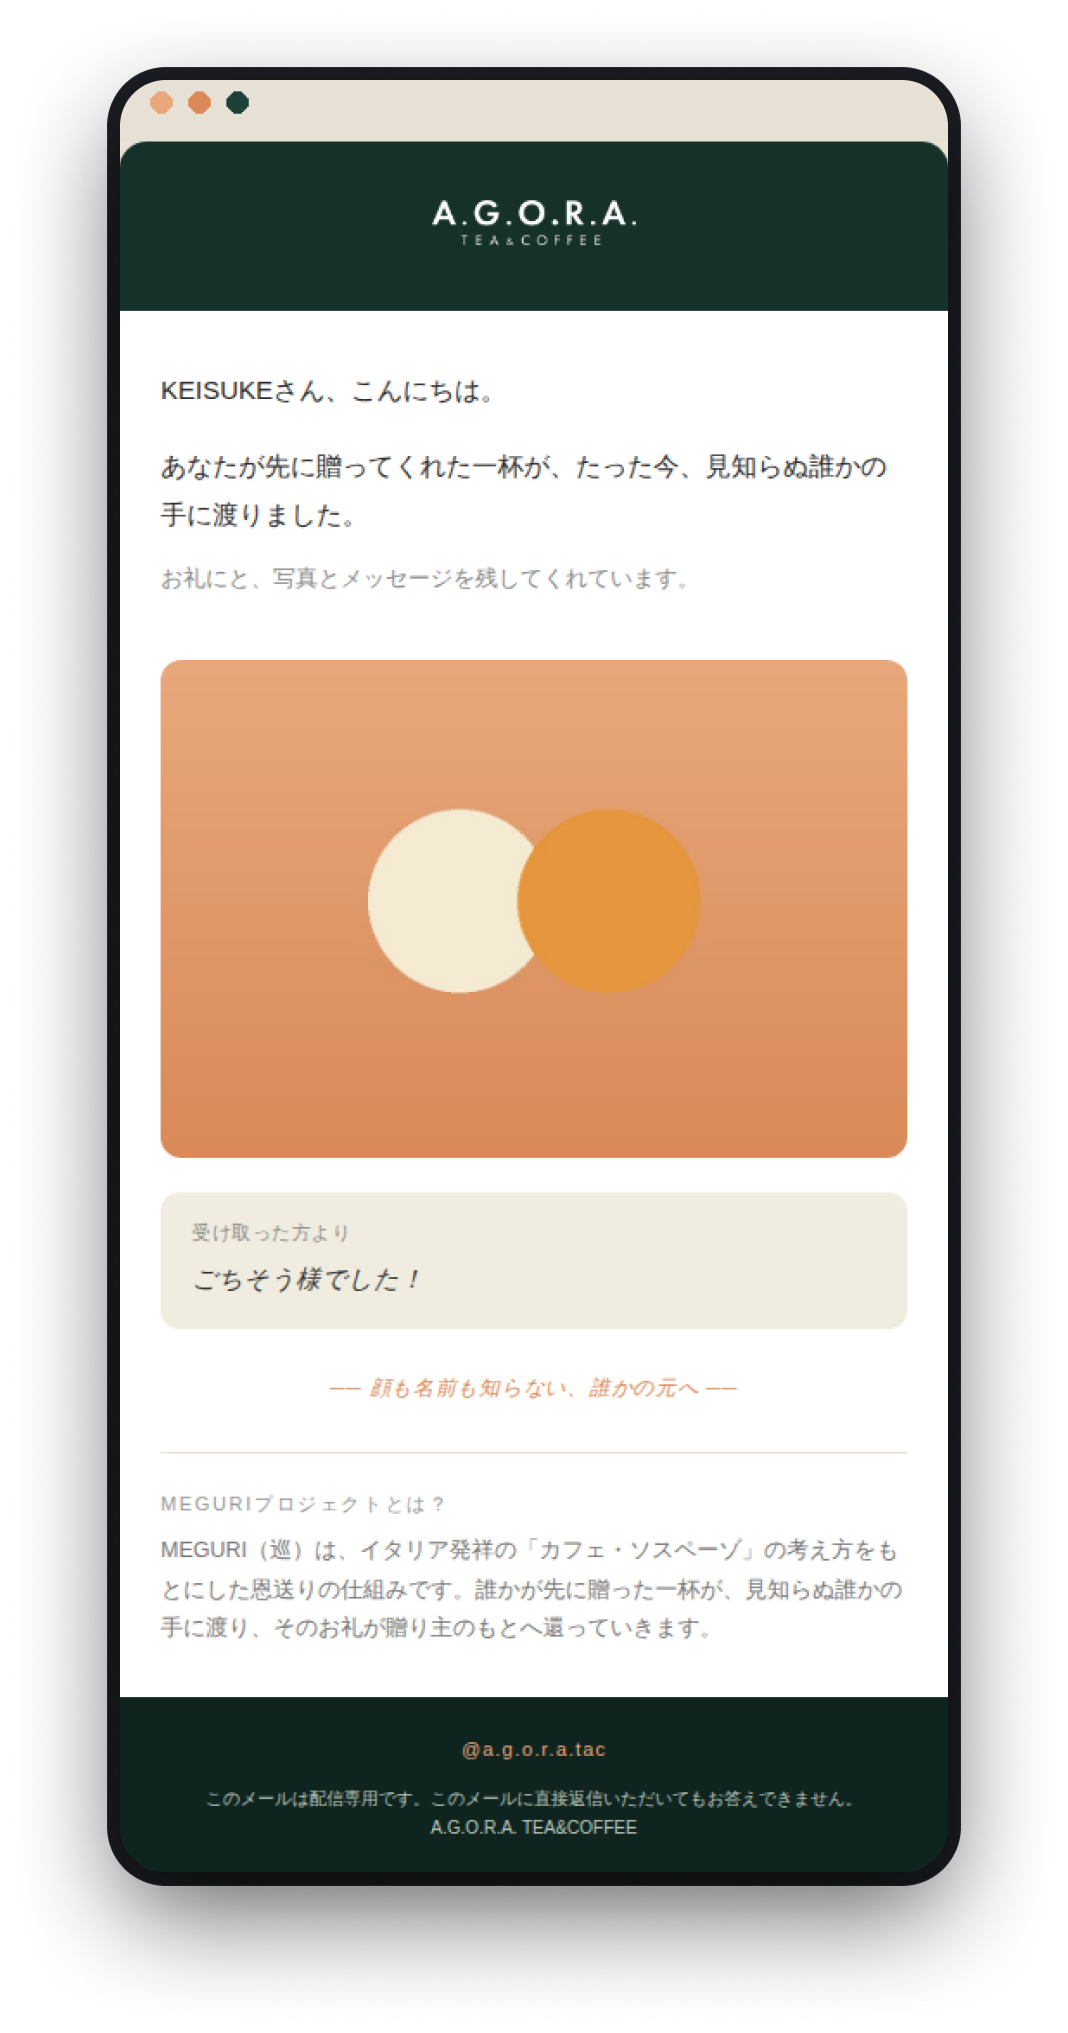
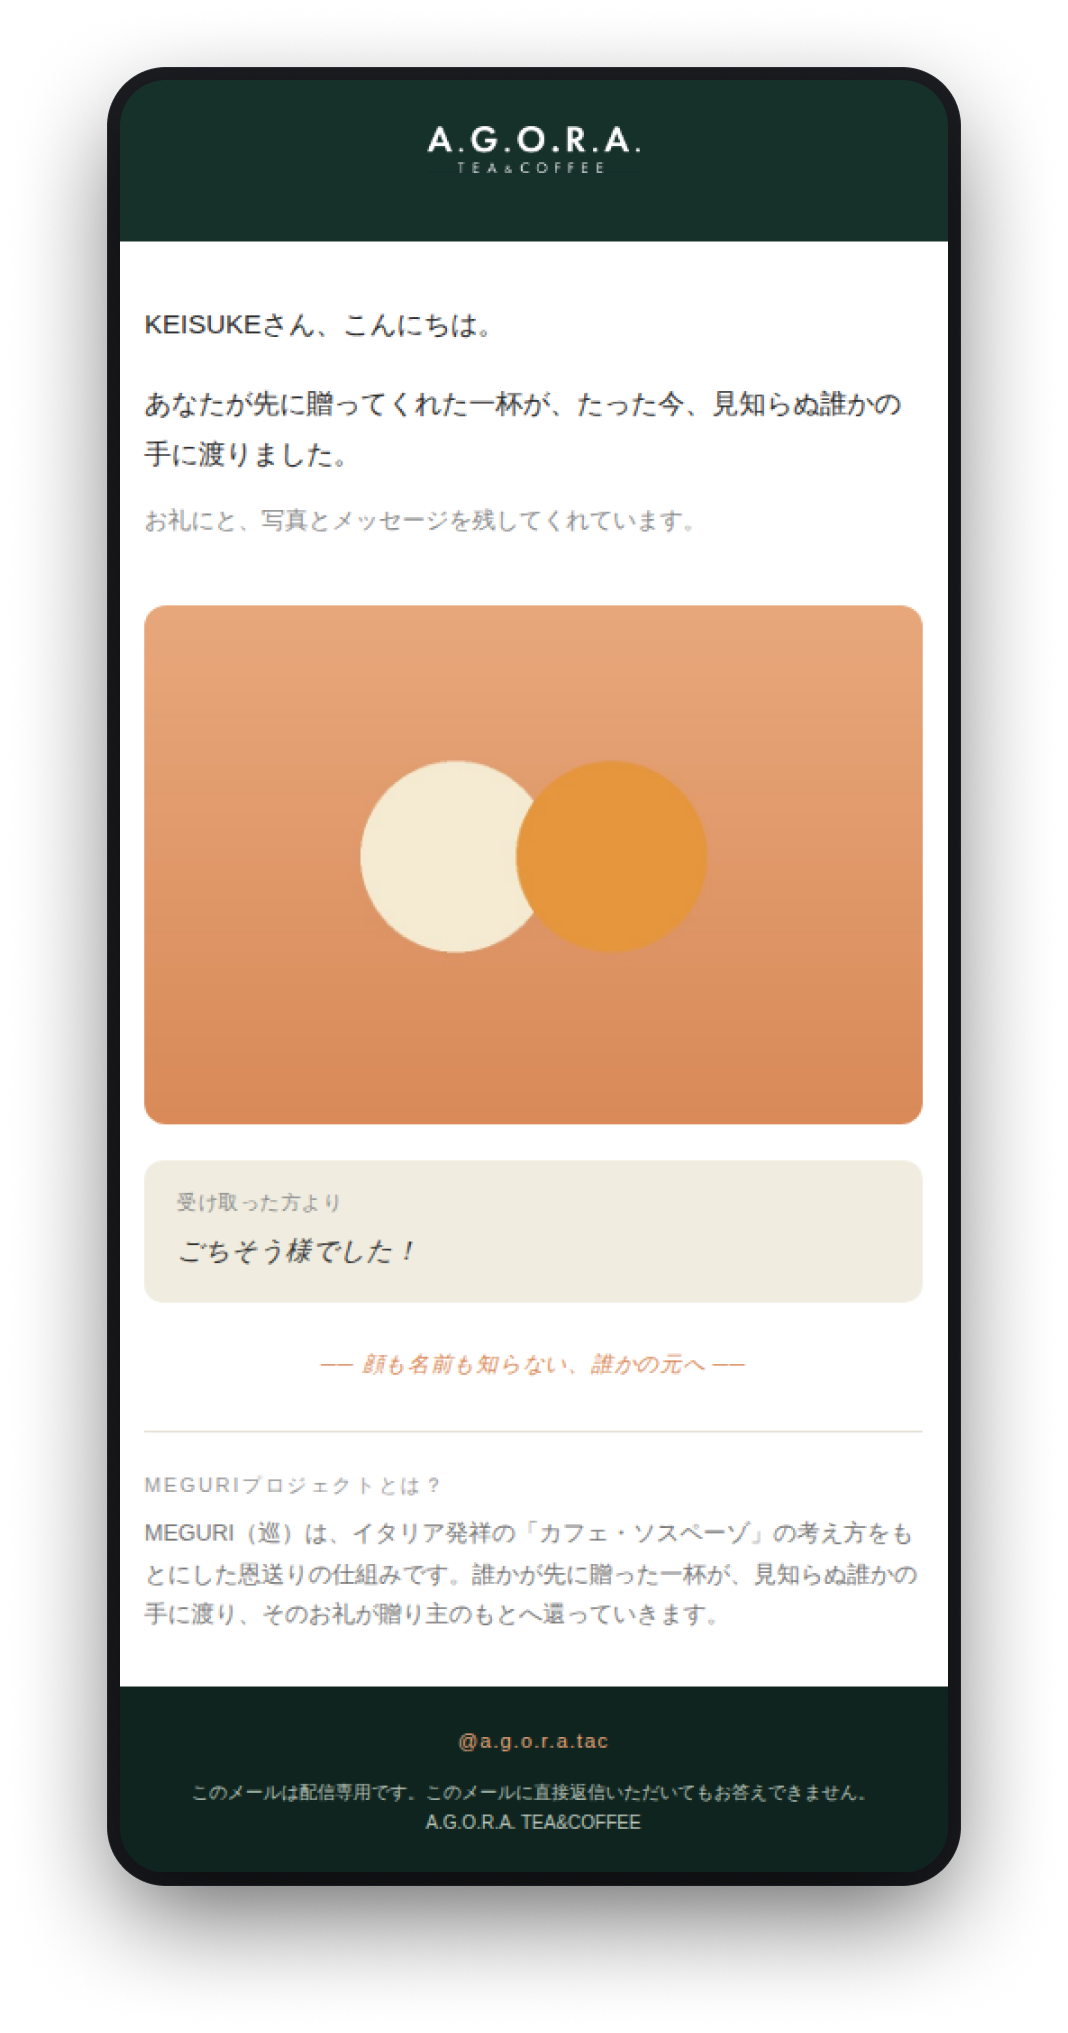
Redesign drink modal to side-by-side layout to avoid internal scrolling

Changed region(s): [[0.0927, 0.031, 0.8961, 0.8987], [0.3399, 0.3719, 0.6798, 0.4958]]

diff --git a/style.css b/style.css
@@ -729,9 +729,10 @@ a { color: inherit; }
 .drink-modal__overlay { position: absolute; inset: 0; background: rgba(15, 36, 31, 0.55); backdrop-filter: blur(3px); }
 .drink-modal__dialog {
   position: relative;
-  width: min(560px, 100%);
-  max-height: calc(100svh - clamp(32px, 8vw, 80px));
-  overflow: auto;
+  width: min(880px, 100%);
+  max-height: calc(100svh - clamp(24px, 6vw, 56px));
+  overflow: hidden;
+  display: flex;
   background: var(--paper);
   border-radius: 18px;
   box-shadow: 0 30px 80px rgba(0, 0, 0, 0.3);
@@ -749,13 +750,24 @@ a { color: inherit; }
   transition: background 0.2s ease;
 }
 .drink-modal__close:hover { background: var(--paper); }
-.drink-modal__media { background: var(--paper-2); }
-.drink-modal__media img { width: 100%; aspect-ratio: 4 / 3; object-fit: cover; display: block; }
-.drink-modal__content { padding: clamp(24px, 4vw, 36px); }
-.drink-modal__tag { margin: 0 0 10px; font-family: var(--font-sans); font-weight: 700; font-size: 0.7rem; letter-spacing: 0.2em; color: var(--sunset); }
-.drink-modal__name { margin: 0; font-family: var(--font-mincho); font-weight: 300; font-size: clamp(1.4rem, 3vw, 1.9rem); line-height: 1.35; color: var(--ink); }
-.drink-modal__sub { margin: 8px 0 0; font-size: var(--fs-note); color: var(--ink-soft); }
-.drink-modal__desc { margin: clamp(16px, 2.4vw, 22px) 0 0; font-size: var(--fs-body); line-height: 1.9; color: var(--ink); }
-.drink-modal__tags { display: flex; flex-wrap: wrap; gap: 8px; margin-top: clamp(18px, 2.4vw, 24px); }
-.drink-modal__chip { font-family: var(--font-sans); font-size: 0.72rem; color: var(--ink-soft); background: var(--paper-2); border: 1px solid var(--border); border-radius: 999px; padding: 5px 12px; }
-.drink-modal__price { margin: clamp(18px, 2.4vw, 24px) 0 0; font-family: var(--font-num); font-weight: 600; font-size: 1.5rem; color: var(--ink); }
+.drink-modal__media { flex: 0 0 42%; background: var(--paper-2); }
+.drink-modal__media img { width: 100%; height: 100%; object-fit: cover; display: block; }
+.drink-modal__content {
+  flex: 1 1 auto;
+  min-width: 0;
+  padding: clamp(22px, 3vw, 34px);
+  overflow-y: auto;
+}
+.drink-modal__tag { margin: 0 0 8px; font-family: var(--font-sans); font-weight: 700; font-size: 0.68rem; letter-spacing: 0.2em; color: var(--sunset); }
+.drink-modal__name { margin: 0; font-family: var(--font-mincho); font-weight: 300; font-size: clamp(1.25rem, 2.2vw, 1.6rem); line-height: 1.35; color: var(--ink); }
+.drink-modal__sub { margin: 6px 0 0; font-size: var(--fs-note); color: var(--ink-soft); }
+.drink-modal__desc { margin: clamp(12px, 1.8vw, 16px) 0 0; font-size: var(--fs-note); line-height: 1.8; color: var(--ink); }
+.drink-modal__tags { display: flex; flex-wrap: wrap; gap: 7px; margin-top: clamp(12px, 1.8vw, 16px); }
+.drink-modal__chip { font-family: var(--font-sans); font-size: 0.68rem; color: var(--ink-soft); background: var(--paper-2); border: 1px solid var(--border); border-radius: 999px; padding: 4px 10px; }
+.drink-modal__price { margin: clamp(12px, 1.8vw, 18px) 0 0; font-family: var(--font-num); font-weight: 600; font-size: 1.3rem; color: var(--ink); }
+
+@media (max-width: 640px) {
+  .drink-modal__dialog { flex-direction: column; width: min(420px, 100%); }
+  .drink-modal__media { flex: 0 0 auto; }
+  .drink-modal__media img { aspect-ratio: 16 / 9; height: auto; }
+}
